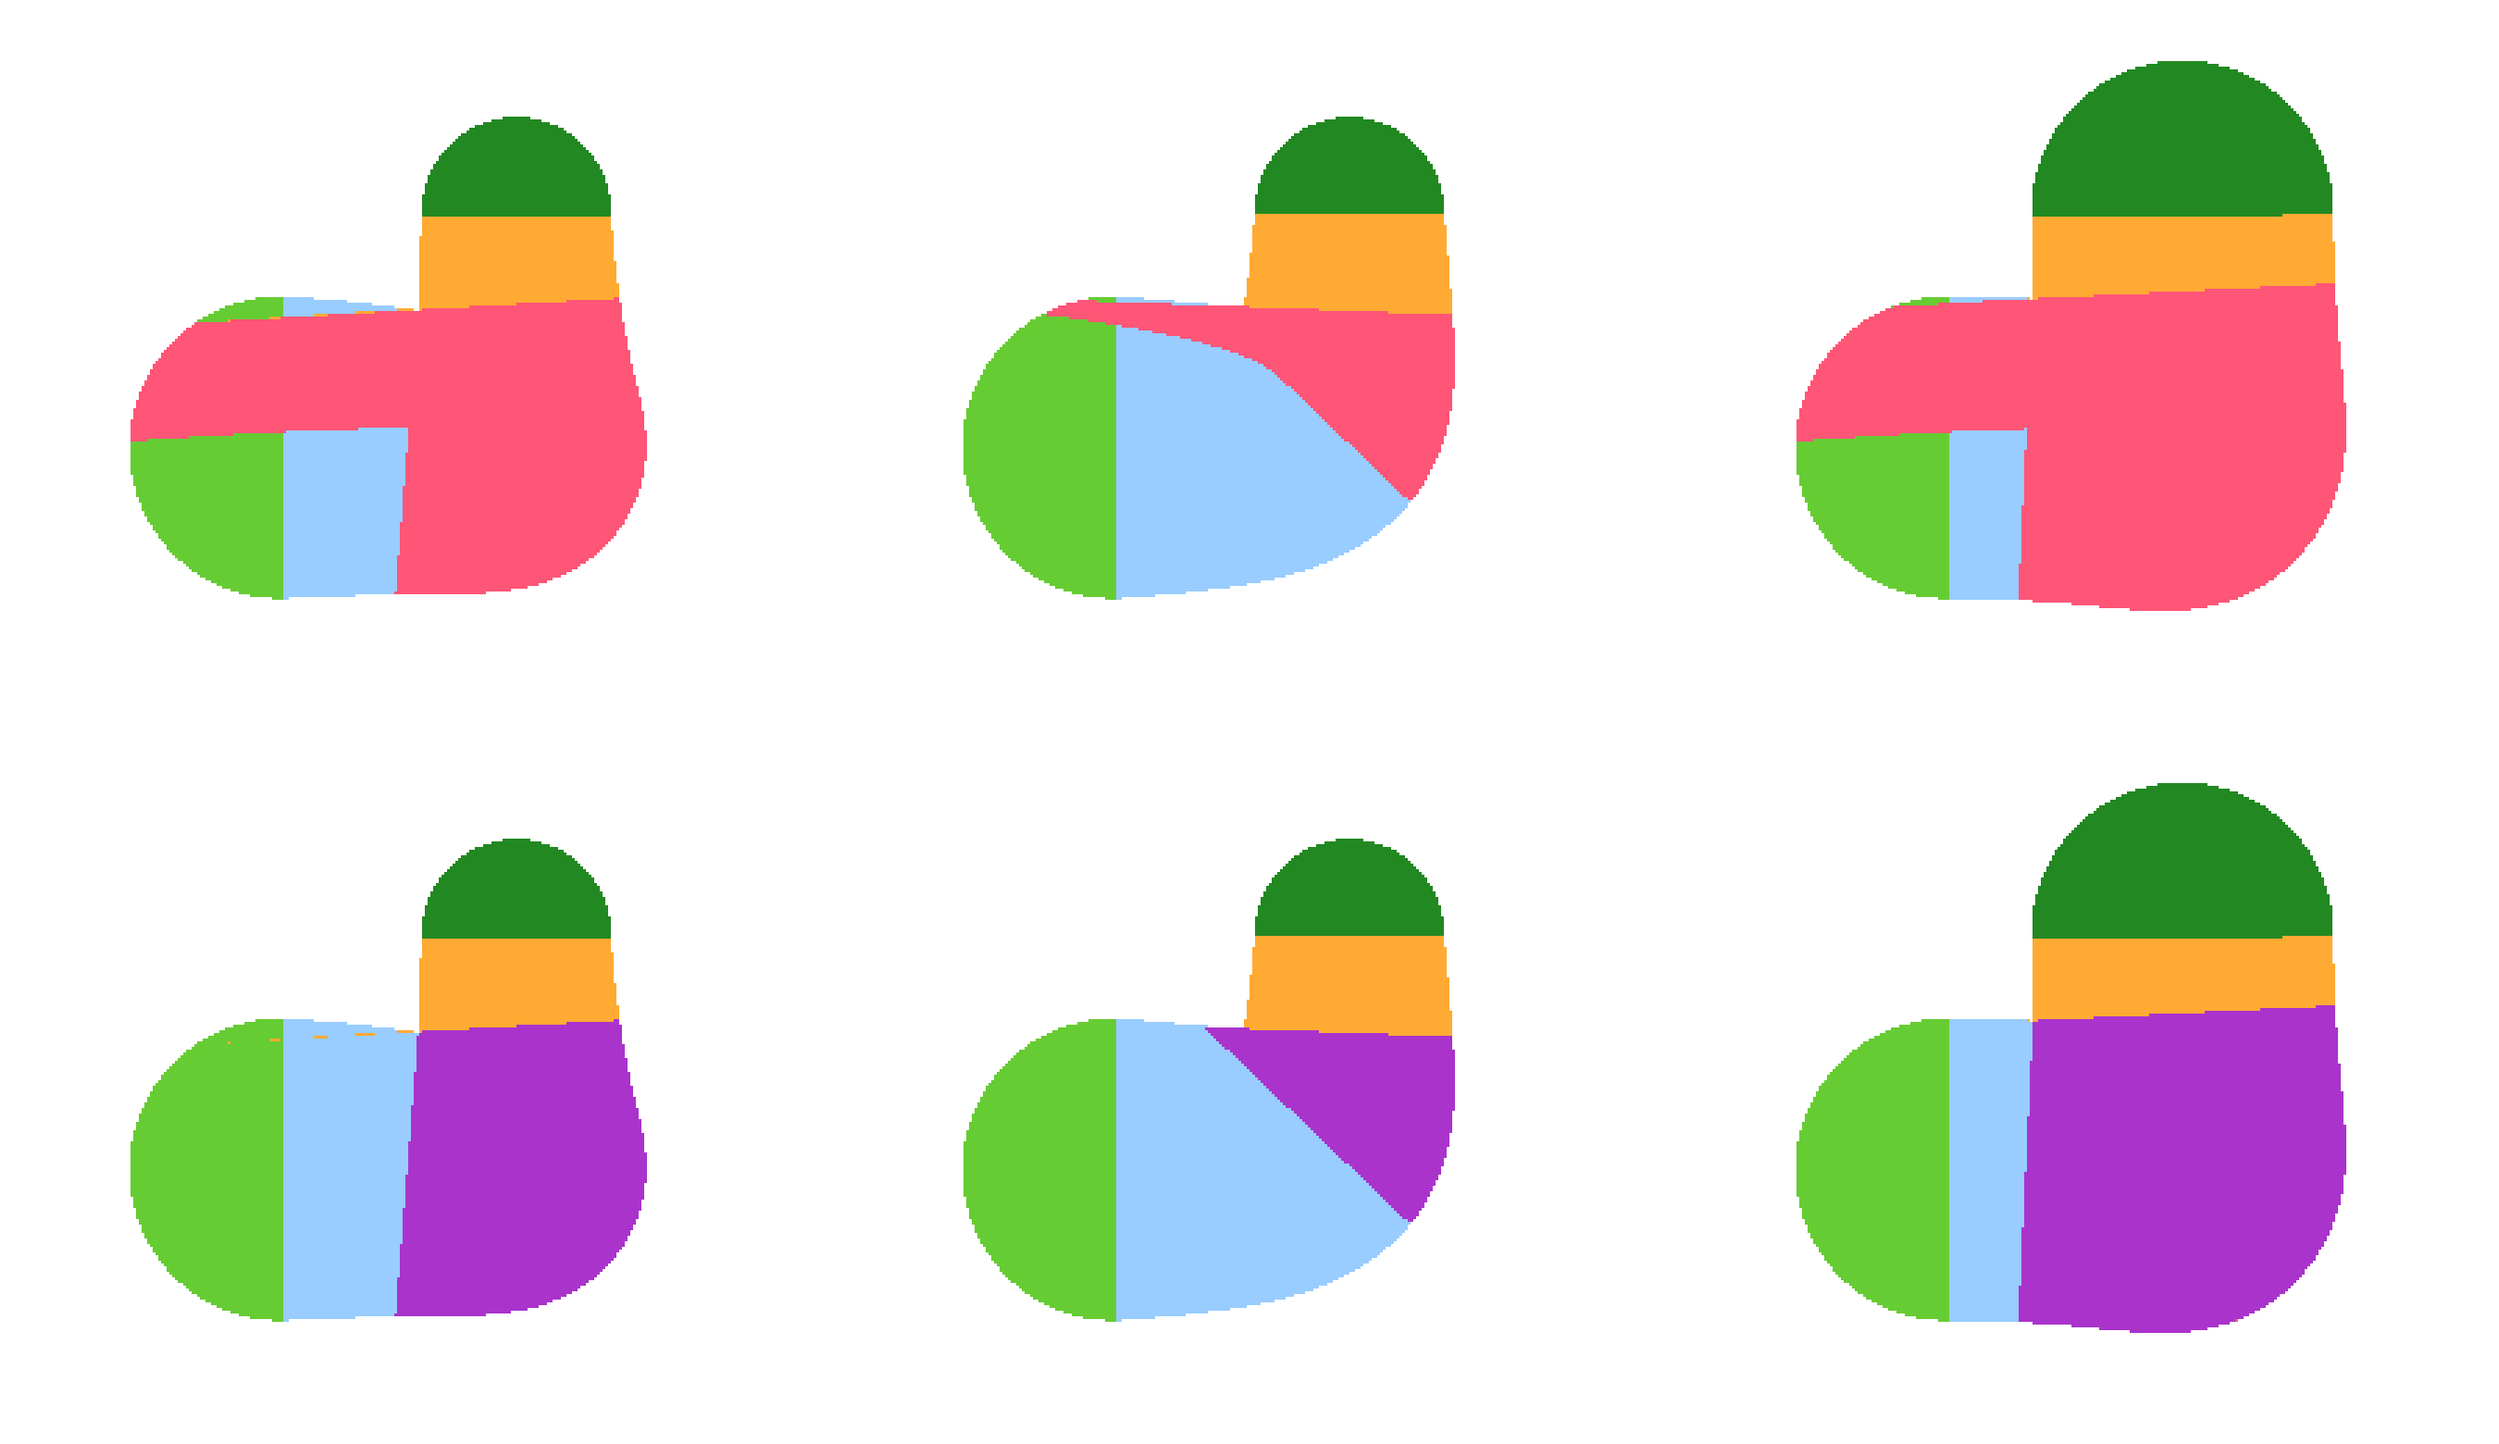
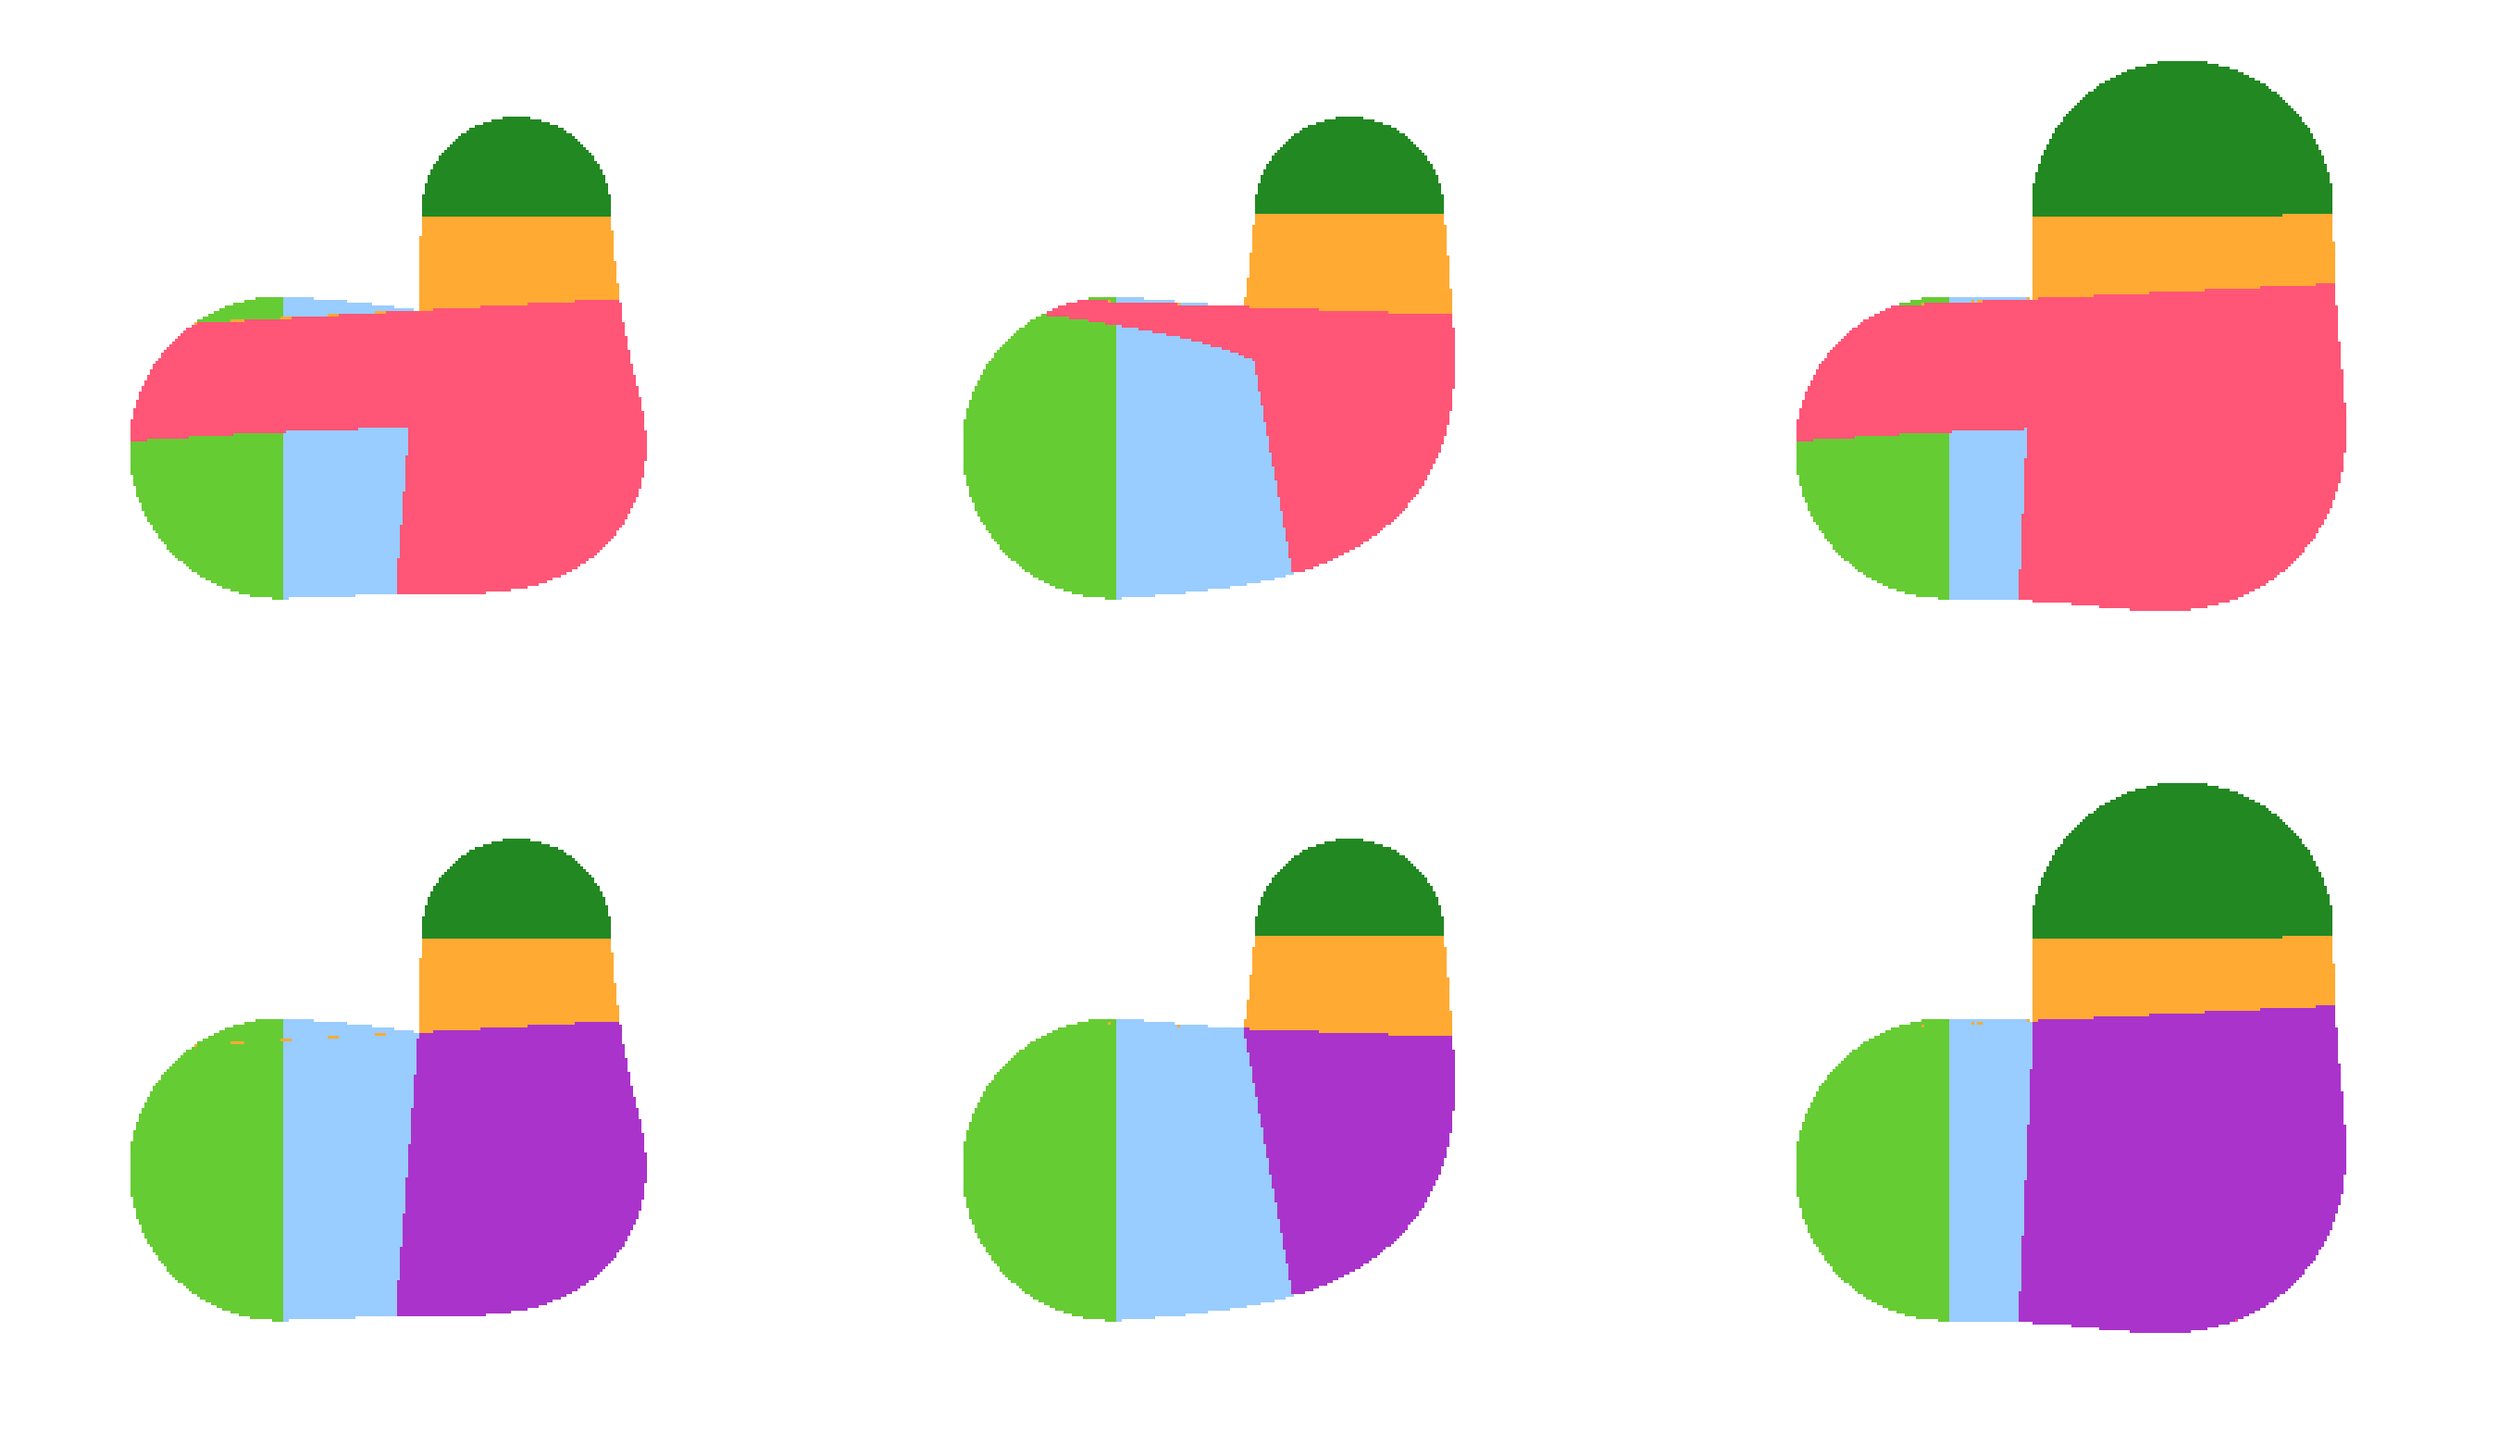
Pliegue ORTOGONAL exacto: centro en el cruce de la envolvente y ta, tb en los pies de X sobre la espina
El cruce exacto de la envolvente es esquina de la silueta (ningún otro disco lo cubre); las normales de la tira que pasan por X salen de sus pies sobre la espina, no de c(ta) y c(tb).
La semianchura de una celda a caballo de un pliegue se recalcula exacta. Salto de u <= 0,002 en los dos bordes de los cinco codos; las 11 suites de Todas pasan.

Claude-Session: https://claude.ai/code/session_01BibuGpxHYXsoU2GosAu2A9

Changed region(s): [[0.4978, 0.2462, 0.56, 0.4], [0.4978, 0.7385, 0.56, 0.8923], [0.4667, 0.7077, 0.4978, 0.7385]]

diff --git a/implementacion/java/src/main/java/Pliegue.java b/implementacion/java/src/main/java/Pliegue.java
@@ -90,11 +90,21 @@ final class Pliegue {
  * La tabla de semianchuras (hw[lado][i], i / m = t) se usa para el contorno exterior de la cuña.
      * Devuelve la zona, o null si ningún lado se cruza a sí mismo.
      */
-    /** EXPERIMENTAL: "esquina" (por defecto), "envolvente" (ta y tb del cruce exacto, centro en el corte de las normales) o "envolventeX" (también el centro). */
-    private static final String DETECCION = System.getProperty("gota.pliegue", "esquina");
+    /** EXPERIMENTAL: "exacto" (por defecto: X es el cruce de la envolvente exacta y ta, tb los pies de X sobre la espina), "esquina" (intervalo de primera salida disparada), "envolvente" (ta y tb del cruce exacto, centro en el corte de las normales) o "envolventeX" (también el centro). */
+    private static final String DETECCION = System.getProperty("gota.pliegue", "exacto");
 
     static Pliegue de(Geometria g, Zonas z, double[][] hw, int m) {
         if (g.arcos() != null) return null;          // forma rígida: la silueta de cuatro arcos no se pliega
+        if (DETECCION.equals("exacto")) {
+            // X es el cruce de la envolvente exacta, que es esquina de la silueta (ningún otro disco de la familia lo cubre: |X - c(s)| >= r(s)).
+            // En ORTOGONAL las líneas de t constante son las normales, así que ta y tb son los pies de X sobre la espina: los mínimos locales de |X - c(t)|
+            // más cercanos a los t del cruce. Con radios iguales coinciden con los del cruce; con radios distintos difieren (la envolvente se inclina).
+            Pliegue e = espiga(g, z, m);
+            if (e == null) return null;
+            double ta = pie(g, e.xx, e.xy, e.ta, m), tb = pie(g, e.xx, e.xy, e.tb, m);
+            if (!(tb - ta > 1e-3)) return null;
+            return new Pliegue(ta, tb, e.xx, e.xy, e.lado, g, hw, m, false);
+        }
         if (!DETECCION.equals("esquina")) {
             Pliegue e = espiga(g, z, m);             // cruce de la envolvente exacta: ta, tb, lado y X
             if (e == null) return null;
@@ -135,6 +145,30 @@ final class Pliegue {
             mejor = new Pliegue(ta, tb, ax + lam * nax, ay + lam * nay, l, g, hw, m, false);
         }
         return mejor;
+    }
+
+    /** El pie de (x, y) sobre el camino más cercano a t0: el mínimo local de |(x, y) - c(t)| cuyo t está más cerca de t0. */
+    private static double pie(Geometria g, double x, double y, double t0, int m) {
+        double mejor = t0, dmejor = Double.MAX_VALUE;
+        for (int i = 0; i <= m; i++) {
+            double t = i / (double) m, d = dist2(g, x, y, t);
+            boolean min = (i == 0 || d <= dist2(g, x, y, (i - 1) / (double) m)) && (i == m || d < dist2(g, x, y, (i + 1) / (double) m));
+            if (!min || i == 0 || i == m) continue;
+            double lo = (i - 1) / (double) m, hi = (i + 1) / (double) m, gr = 0.6180339887498949;
+            double c = hi - gr * (hi - lo), e = lo + gr * (hi - lo), fc = dist2(g, x, y, c), fe = dist2(g, x, y, e);
+            for (int it = 0; it < 40; it++) {
+                if (fc < fe) { hi = e; e = c; fe = fc; c = hi - gr * (hi - lo); fc = dist2(g, x, y, c); }
+                else { lo = c; c = e; fc = fe; e = lo + gr * (hi - lo); fe = dist2(g, x, y, e); }
+            }
+            double tm = (lo + hi) / 2;
+            if (Math.abs(tm - t0) < Math.abs(mejor - t0) || dmejor == Double.MAX_VALUE) { mejor = tm; dmejor = 0; }
+        }
+        return mejor;
+    }
+
+    private static double dist2(Geometria g, double x, double y, double t) {
+        double dx = x - g.cx(t), dy = y - g.cy(t);
+        return dx * dx + dy * dy;
     }
 
     private static final double HUECO_RUN = 0.2;    // fracción de t: separación máxima para fundir dos tramos disparados

diff --git a/implementacion/java/src/main/java/Zonas.java b/implementacion/java/src/main/java/Zonas.java
@@ -314,6 +314,20 @@ final class Zonas {
             }
         }
 
+        /** Primera salida de la normal del marco f por el lado sg (+1: +N), con el paso y la bisección de la tabla. */
+        private double salida(Fr f, double sg) {
+            double lo = 0, hi = 4 * f.r + 50, paso = Math.max(f.r, 1) / 32;
+            for (double d = paso; d <= hi; d += paso) {
+                if (!g.mascara().contiene(f.cx + sg * d * f.nx, f.cy + sg * d * f.ny)) { hi = d; break; }
+                lo = d;
+            }
+            for (int it = 0; it < 45; it++) {
+                double mid = (lo + hi) / 2;
+                if (g.mascara().contiene(f.cx + sg * mid * f.nx, f.cy + sg * mid * f.ny)) lo = mid; else hi = mid;
+            }
+            return Math.max(lo, 1e-6);
+        }
+
         private double d2(double x, double y, double t) {
             double dx = x - g.cx(t), dy = y - g.cy(t);
             return dx * dx + dy * dy;
@@ -378,7 +392,9 @@ final class Zonas {
             }
             double fi = t * M;
             int i0 = Math.min(M - 1, (int) fi), side = S >= 0 ? 1 : 0;
-            double fr = fi - i0, h = hw[side][i0] * (1 - fr) + hw[side][i0 + 1] * fr;
+            double fr = fi - i0, h0 = hw[side][i0], h1 = hw[side][i0 + 1], h = h0 * (1 - fr) + h1 * fr;
+            if (PRIMERA_SALIDA && Math.max(h0, h1) > 1.3 * Math.min(h0, h1))
+                h = salida(f, side == 1 ? 1 : -1);      // celda a caballo de un pliegue: la interpolación mezclaría una salida disparada con una normal
             if (estricto && Math.abs(Sp) > h * 1.02) return null;
             double q = Utils.acota(Sp / h, -1, 1);
             double v = vCuerpo(t);

diff --git a/implementacion/java/ESTUDIO_SOLAPES.md b/implementacion/java/ESTUDIO_SOLAPES.md
@@ -368,7 +368,7 @@ Se mide con `EstudioPliegueBordes` el salto de (u, v) a través de las dos norma
   hacia X. Dos causas. La semianchura de la tira salía de una bisección sobre la máscara, que junto al pliegue da ≈ 1,9·r porque la normal vuelve a entrar en
   la gota por la otra pierna del codo; y con radios distintos el cruce de la envolvente no es la esquina de la gota, porque el punto interior de la envolvente
   queda tapado por los discos del otro tramo antes del cruce (en el codo a = 3,5 con r1 = 1,6 y r2 = 1,0 la normal de t = 0,891 sale a 3·r).
-- **Ahora**: la semianchura es la primera salida de la normal (`-Dgota.primeraSalida=false` restablece la bisección; **cambia el valor por defecto de la tira
+- **Segunda versión (`esquina`)**: la semianchura es la primera salida de la normal (`-Dgota.primeraSalida=false` restablece la bisección; **cambia el valor por defecto de la tira
   ORTOGONAL**, las suites de `Todas` pasan pero no se ha comparado la imagen en otras formas) y el pliegue es el intervalo [ta, tb] donde esa salida pasa de 1,35·r
   (se funden tramos separados por menos de 0,2 de t, porque en un codo suave baja en medio). El centro es el corte de las normales de ta y tb por el lado
   interior, de modo que los bordes de la cuña están sobre las líneas de t constante.
@@ -383,9 +383,20 @@ Se mide con `EstudioPliegueBordes` el salto de (u, v) a través de las dos norma
   salto máximo de u 0,30 con a = 3,5 (frente a 0,001 con `esquina`) y 0,27 / 0,25 con a = 2,5 (frente a 0,14). En ese extremo el punto interior de la envolvente queda tapado por
   los discos del otro tramo antes del cruce, y entre tb(envolvente) y tb(esquina) la semianchura de la tira sigue disparada. En el único caso donde mejora es en ta del codo
   a = 2,5 con r1 = 1,6 y r2 = 1,0 (0,217 frente a 0,506: salto de v 0,005 frente a 0,058), pero allí empeora tb.
-- **No resuelto**: a = 2,5 con r1 = 1,6 y r2 = 1,0 (ta = 0,51, tb = 0,83): salto de u de 0,01–0,05 y de v de hasta 0,21 en un borde. Aquí el lazo de la envolvente
-  queda casi todo dentro de la gota (la salida crece poco a poco, de 1,09·r a 2,8·r, sin esquina clara), así que no hay una ta bien definida con este criterio.
-- **Pendiente**: un solo intervalo por gota (S, espirales); el umbral 1,35 y la fusión de 0,2 están elegidos con estos cinco codos.
+- **Exacto** (`-Dgota.pliegue=exacto`, por defecto; `esquina`, `envolvente` y `envolventeX` siguen como interruptores):
+  - *Justificación*: con la envolvente exacta P(t) = c + r·(−(r'/|c'|)·T ± √(1 − (r'/|c'|)²)·N) el cruce X = P(ta) = P(tb) es esquina de la silueta si ningún otro disco
+    de la familia lo cubre, |X − c(s)| ≥ r(s) para todo s. Se comprobó numéricamente en los cinco codos: el mínimo de |X − c(s)| − r(s) es 0, solo en las tangencias, y la
+    rama interior queda oculta exactamente en [ta, tb]. Con radios distintos la envolvente se inclina, así que las normales de la tira (las líneas de t constante de ORTOGONAL)
+    que pasan por X no salen de c(ta) y c(tb), sino de los pies de X sobre la espina.
+  - *Definición*: el centro de las polares es X (cruce exacto de la envolvente), y ta y tb son los pies de X sobre la espina (mínimos locales de |X − c(t)| más cercanos a los t
+    del cruce). Los bordes de la cuña son exactamente las normales por X, de longitud |X − c(pie)| ≈ r(pie). Sin umbrales ni fusiones.
+  - *Por qué `esquina` no era exacto*: sus ta y tb coincidían con los pies cuando el lazo es claro (a = 3,5), pero en el codo suave con radios distintos daban ta = 0,51 y los pies
+    dan 0,300; el umbral 1,35·r y la fusión de 0,2 de t no tienen justificación geométrica.
+  - *Tabla de semianchuras*: el pie cae dentro de una celda de 1/512 con un lado disparado y otro normal, y la interpolación los mezclaba (salto de u de 0,17 en a = 3,5 con r1 = 1,6 y
+    r2 = 1,0). Ahora, si los dos extremos de la celda difieren en más de 1,3 veces, se recalcula la primera salida exacta de esa normal.
+  - *Medido*: salto de u ≤ 0,002 en los dos bordes de los cinco codos (a = 3,5 y 2,5; radios iguales y distintos); el salto de v de 0,003–0,007 es el de la propia medida (0,6 px
+    a cada lado). Las 11 suites de `Todas` pasan.
+- **Pendiente**: un solo cruce por gota (S, espirales); costuras SUAVIZADO (legacy, se sustituirá por APOLONIO) y ESPIGA con otros radios; la derivada en los bordes de la cuña.
 
 ### ESPIGA (la costura por defecto)
 
